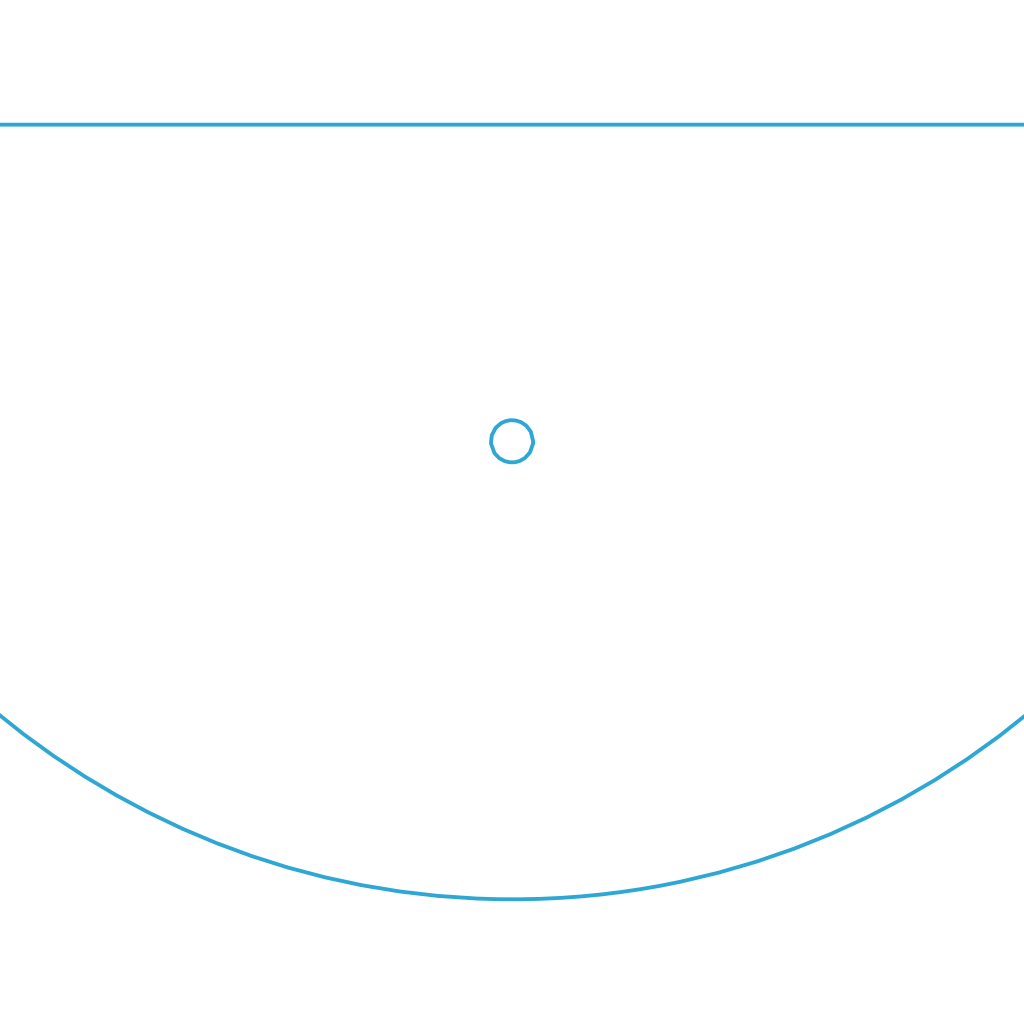
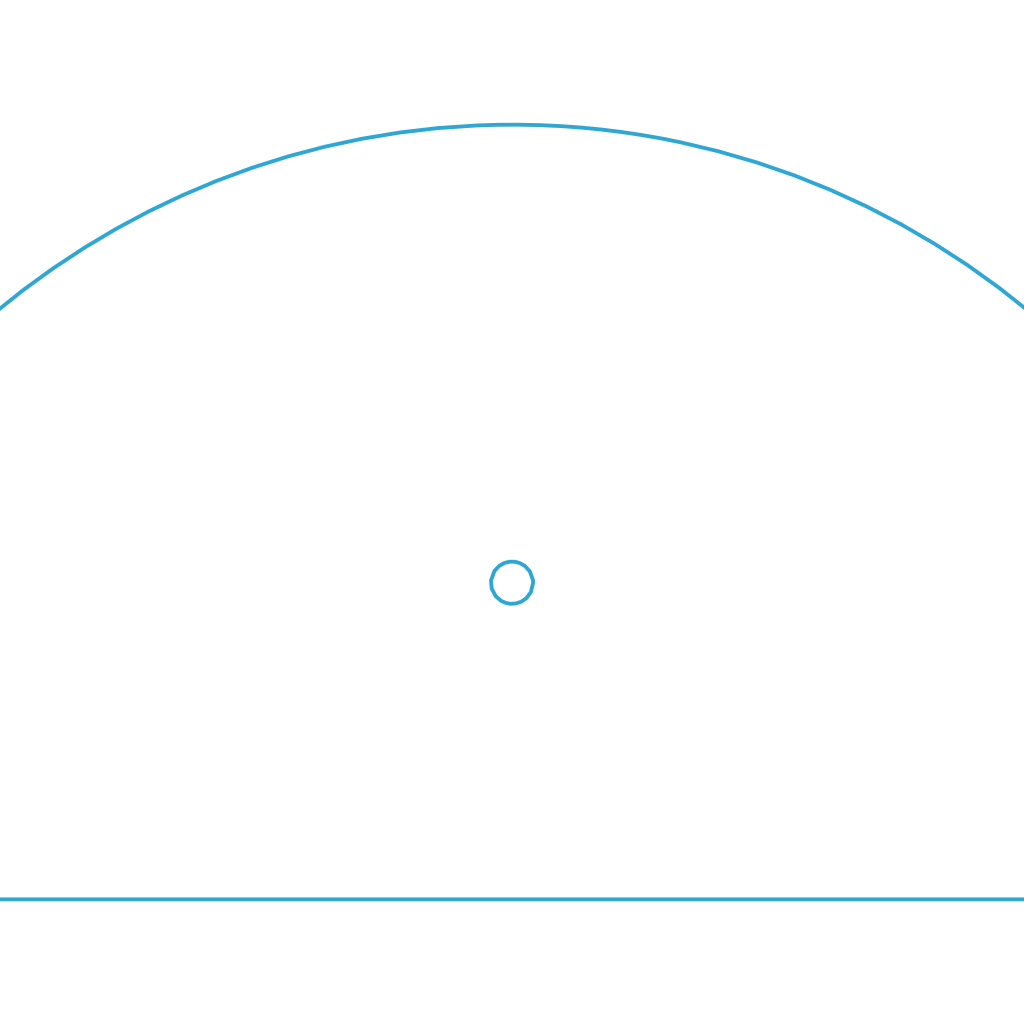
gui: inverse the Y axis of the SPARC AR
The convention is to have the Y axis to the top, which means in manual
alignment mode, which has no lens, it should look toward down. IOW, we want
the bar of the D on the top in normal acquisition, so it should be down on the
alignment.

Still needs to be tested on the real hardware to check everything has been correctly
inverted.

diff --git a/src/odemis/gui/main_xrc.py b/src/odemis/gui/main_xrc.py
@@ -1407,8 +1407,8 @@ def __init_resources():
                   <object class="sizeritem">
                     <object class="wxGridBagSizer">
                       <object class="sizeritem">
-                        <object class="wxStaticText" name="lbl_py">
-                          <label>+Y</label>
+                        <object class="wxStaticText" name="lbl_my">
+                          <label>-Y</label>
                           <fg>#E5E5E5</fg>
                           <font>
                             <size>16</size>
@@ -1425,8 +1425,8 @@ def __init_resources():
                         <cellpos>0,2</cellpos>
                       </object>
                       <object class="sizeritem">
-                        <object class="wxStaticText" name="lbl_my">
-                          <label>-Y</label>
+                        <object class="wxStaticText" name="lbl_py">
+                          <label>+Y</label>
                           <fg>#E5E5E5</fg>
                           <font>
                             <size>16</size>
@@ -1481,7 +1481,7 @@ def __init_resources():
                       </object>
                       <object class="sizeritem">
                         <object class="ImageTextButton" name="mirror_align_btn_py">
-                          <label>▵</label>
+                          <label>↑</label>
                           <delta>1</delta>
                           <bitmap>img_btn_64x48_png</bitmap>
                           <hover>img_btn_64x48_h_png</hover>
@@ -1506,7 +1506,7 @@ def __init_resources():
                       </object>
                       <object class="sizeritem">
                         <object class="ImageTextButton" name="mirror_align_btn_my">
-                          <label>▿</label>
+                          <label>↓</label>
                           <delta>1</delta>
                           <bitmap>img_btn_64x48_png</bitmap>
                           <hover>img_btn_64x48_h_png</hover>
@@ -1531,7 +1531,7 @@ def __init_resources():
                       </object>
                       <object class="sizeritem">
                         <object class="ImageTextButton" name="mirror_align_btn_px">
-                          <label>◃</label>
+                          <label>←</label>
                           <delta>1</delta>
                           <bitmap>img_btn_64x48_png</bitmap>
                           <hover>img_btn_64x48_h_png</hover>
@@ -1554,7 +1554,7 @@ def __init_resources():
                       </object>
                       <object class="sizeritem">
                         <object class="ImageTextButton" name="mirror_align_btn_mx">
-                          <label>▹</label>
+                          <label>→</label>
                           <delta>1</delta>
                           <bitmap>img_btn_64x48_png</bitmap>
                           <hover>img_btn_64x48_h_png</hover>
@@ -1623,8 +1623,8 @@ def __init_resources():
                   <object class="sizeritem">
                     <object class="wxGridBagSizer">
                       <object class="sizeritem">
-                        <object class="wxStaticText" name="lbl_pry">
-                          <label>+Pitch</label>
+                        <object class="wxStaticText" name="lbl_mry">
+                          <label>-Pitch</label>
                           <fg>#E5E5E5</fg>
                           <font>
                             <size>16</size>
@@ -1641,8 +1641,8 @@ def __init_resources():
                         <cellpos>0,2</cellpos>
                       </object>
                       <object class="sizeritem">
-                        <object class="wxStaticText" name="lbl_mry">
-                          <label>-Pitch</label>
+                        <object class="wxStaticText" name="lbl_pry">
+                          <label>+Pitch</label>
                           <fg>#E5E5E5</fg>
                           <font>
                             <size>16</size>
@@ -1697,7 +1697,7 @@ def __init_resources():
                       </object>
                       <object class="sizeritem">
                         <object class="ImageTextButton" name="mirror_align_btn_pry">
-                          <label>▵</label>
+                          <label>↑</label>
                           <delta>1</delta>
                           <bitmap>img_btn_64x48_png</bitmap>
                           <hover>img_btn_64x48_h_png</hover>
@@ -1722,7 +1722,7 @@ def __init_resources():
                       </object>
                       <object class="sizeritem">
                         <object class="ImageTextButton" name="mirror_align_btn_mry">
-                          <label>▿</label>
+                          <label>↓</label>
                           <delta>1</delta>
                           <bitmap>img_btn_64x48_png</bitmap>
                           <hover>img_btn_64x48_h_png</hover>
@@ -1747,7 +1747,7 @@ def __init_resources():
                       </object>
                       <object class="sizeritem">
                         <object class="ImageTextButton" name="mirror_align_btn_mrz">
-                          <label>↻</label>
+                          <label>←</label>
                           <delta>1</delta>
                           <bitmap>img_btn_64x48_png</bitmap>
                           <hover>img_btn_64x48_h_png</hover>
@@ -1770,7 +1770,7 @@ def __init_resources():
                       </object>
                       <object class="sizeritem">
                         <object class="ImageTextButton" name="mirror_align_btn_prz">
-                          <label>↺</label>
+                          <label>→</label>
                           <delta>1</delta>
                           <bitmap>img_btn_64x48_png</bitmap>
                           <hover>img_btn_64x48_h_png</hover>

diff --git a/src/odemis/gui/img/data.py b/src/odemis/gui/img/data.py
@@ -1,5 +1,5 @@
 #----------------------------------------------------------------------
-# This file was generated by /usr/local/bin/img2py
+# This file was generated by /usr/bin/img2py
 #
 from wx.lib.embeddedimage import PyEmbeddedImage
 
@@ -2464,10 +2464,10 @@ getemptyBitmap = empty.GetBitmap
 
 #----------------------------------------------------------------------
 ico_blending_goal = PyEmbeddedImage(
[3 lines of base64/hex data omitted]
-    "AElFTkSuQmCC")
[3 lines of base64/hex data omitted]
+    "TkSuQmCC")
 index.append('ico_blending_goal')
 catalog['ico_blending_goal'] = ico_blending_goal
 getico_blending_goalData = ico_blending_goal.GetData
